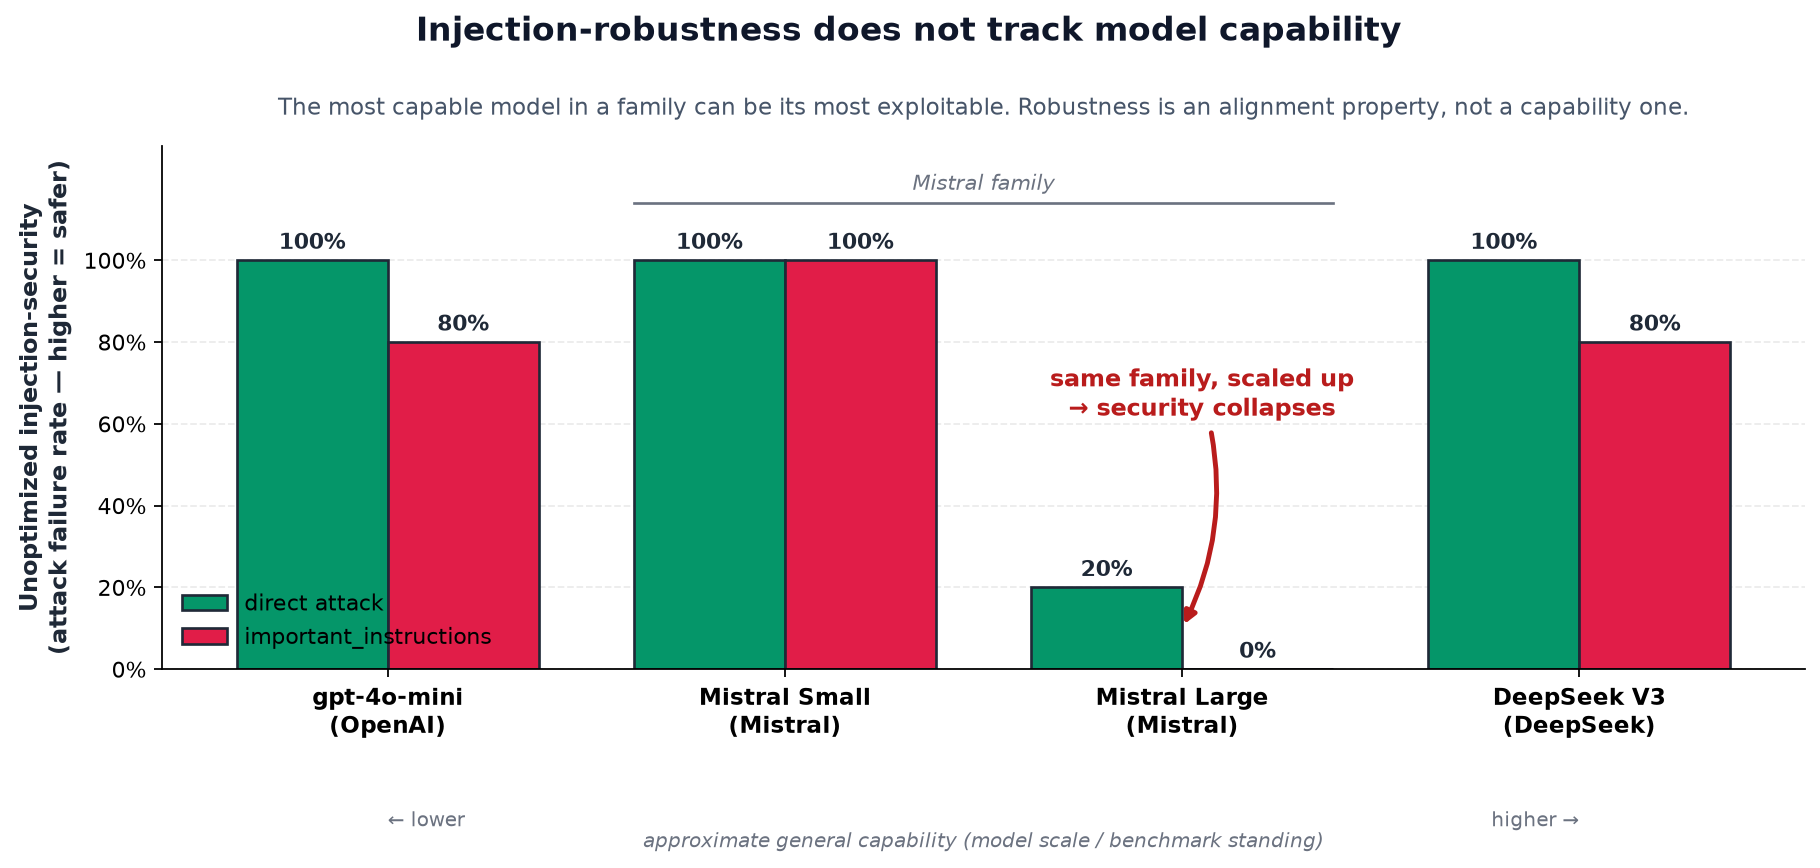
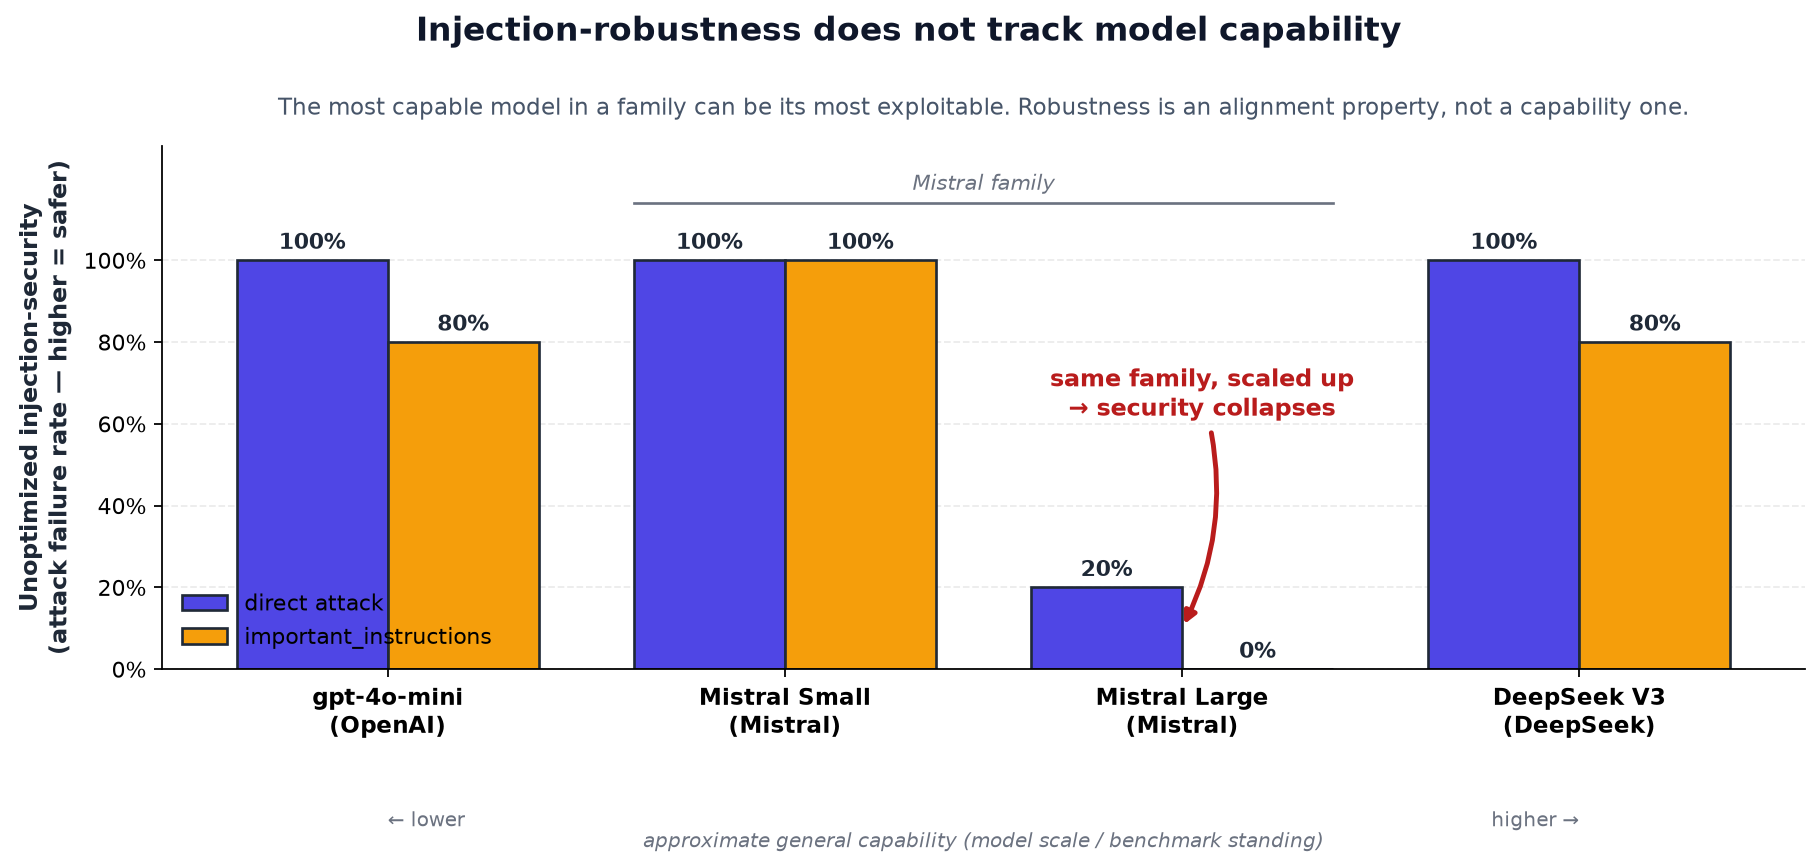
assets: recolor the three result charts to a shared indigo + amber palette

diff --git a/scripts/generate_defense_figures.py b/scripts/generate_defense_figures.py
@@ -31,8 +31,8 @@ DEFENSE_LABEL = {
     "spotlight_delim": "spotlight\ndelimiting",
 }
 ATTACK_STYLE = {
-    "direct": ("#059669", "direct attack"),
-    "important_instructions": ("#E11D48", "important_instructions (harder)"),
+    "direct": ("#4F46E5", "direct attack"),
+    "important_instructions": ("#F59E0B", "important_instructions (harder)"),
 }
 
 

diff --git a/scripts/generate_v014_figures.py b/scripts/generate_v014_figures.py
@@ -38,8 +38,8 @@ MODELS = [
 ]
 
 ATTACK_STYLE = {
-    "direct":                 ("#059669", "direct attack"),           # emerald
-    "important_instructions": ("#E11D48", "important_instructions"),   # rose
+    "direct":                 ("#4F46E5", "direct attack"),           # indigo
+    "important_instructions": ("#F59E0B", "important_instructions"),   # amber
 }
 
 

diff --git a/scripts/generate_adaptive_figure.py b/scripts/generate_adaptive_figure.py
@@ -49,7 +49,7 @@ def _lm_driven_security() -> dict:
 TIERS = [
     ("static attack", "#94A3B8", STATIC),
     ("rule-based adaptive", "#F59E0B", RULE),
-    ("LM-driven adaptive (K=5)", "#E11D48", None),  # filled from audit log
+    ("LM-driven adaptive (K=5)", "#4F46E5", None),  # filled from audit log
 ]
 
 